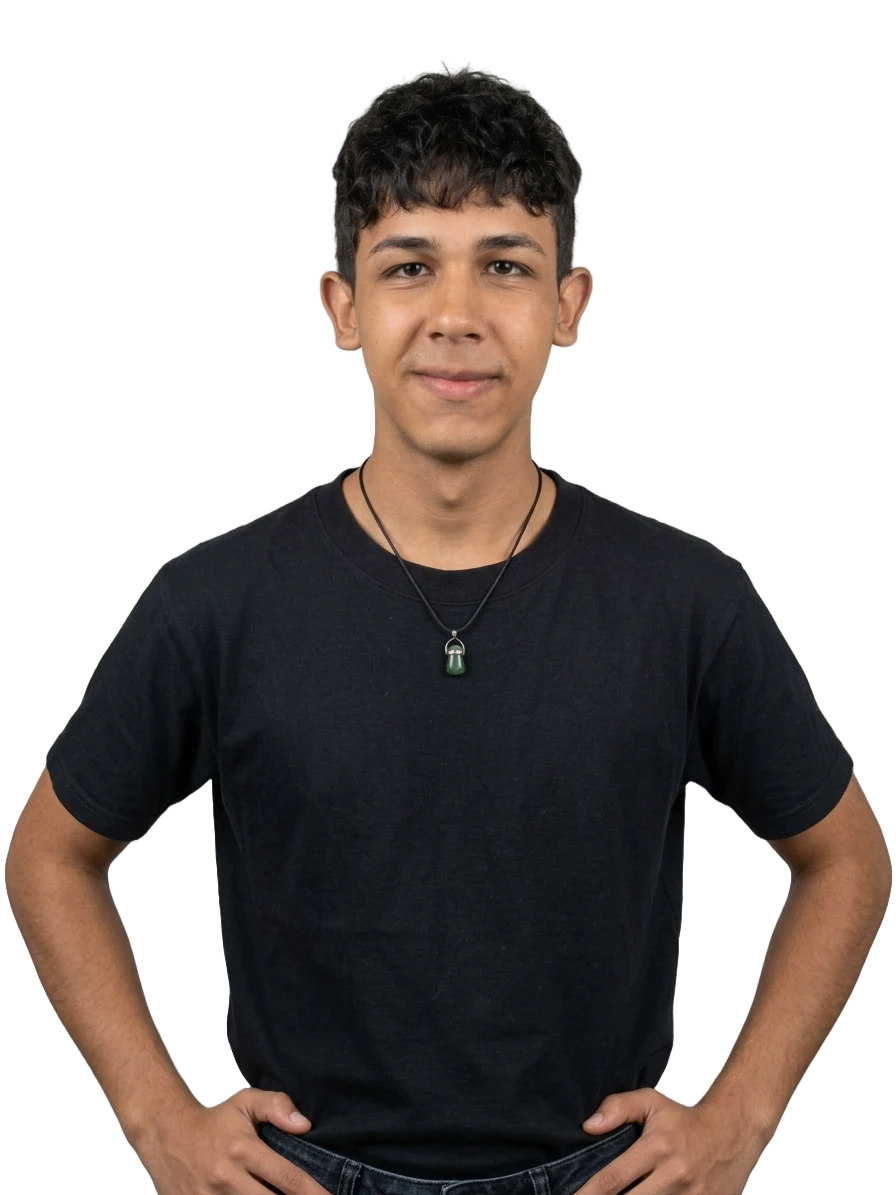
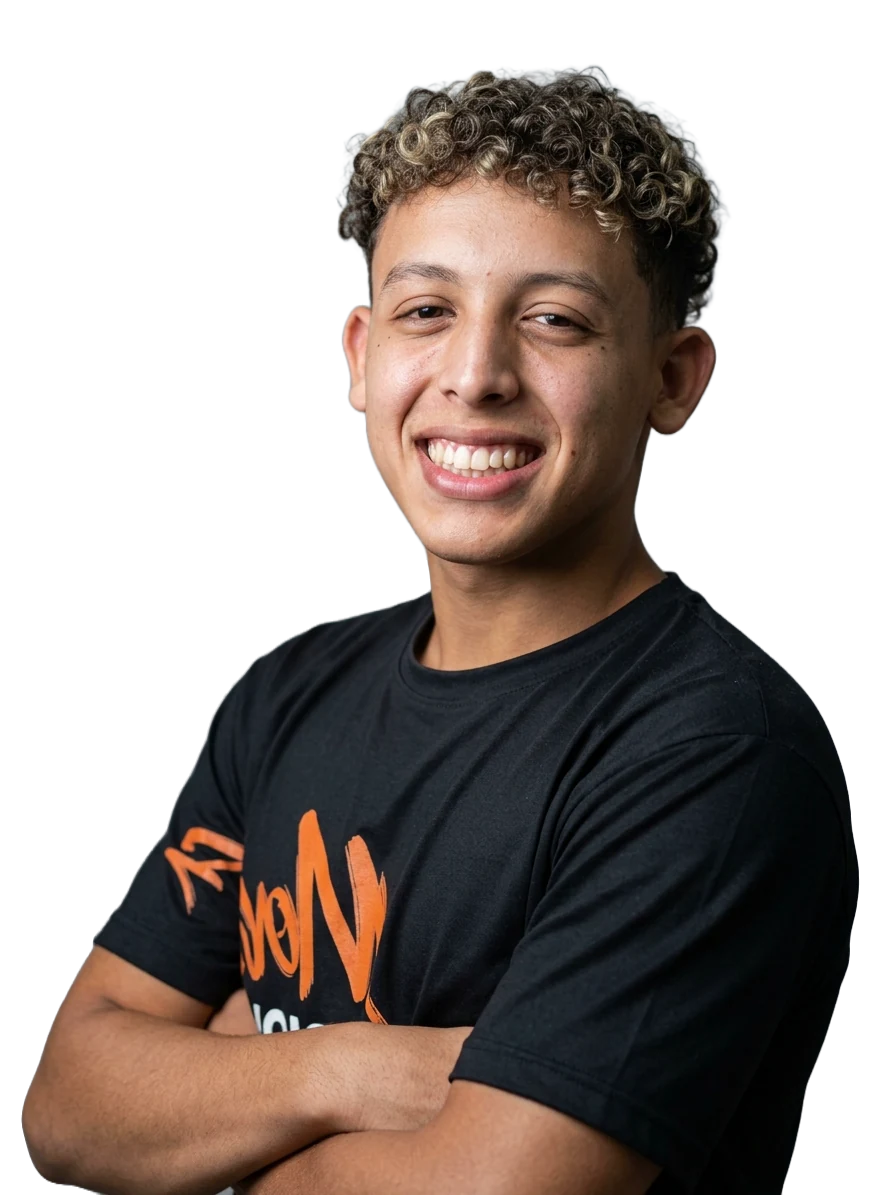
Actualizacion de fundadores y equipo.

diff --git a/Navegacion_Bytes/nuestro-equipo.html b/Navegacion_Bytes/nuestro-equipo.html
@@ -89,12 +89,6 @@
     <!-- ============================================================
          CONTENIDO A SUSTITUIR
          Por cada persona hay que cambiar:
-           · .member-monogram → sus iniciales
-           · .member-label    → su área
-           · .member-name     → nombre y apellido
-           · .member-role     → cargo
-           · .member-bio      → biografía
-           · .member-skills   → sus habilidades
            · .member-social   → URLs reales (ahora apuntan a #)
            · .member-photo    → subir la foto a la carpeta equipo/ con
                                 el nombre que indica el src. Son recortes
@@ -143,20 +137,58 @@
         </div>
     </section>
 
-    <!-- Persona 02 · foto a la derecha -->
+    <!-- Persona 02 · foto a la izquierda -->
     <section class="member member--tono-b member--invertida" aria-labelledby="miembro-2">
         <span class="member-ghost" aria-hidden="true">02</span>
         <div class="member-inner reveal">
 
             <figure class="member-portrait">
-                <span class="member-monogram" aria-hidden="true"></span>
+                <span class="member-monogram" aria-hidden="true">NA</span>
                 <img class="member-photo" src="../equipo/equipo-2.webp"
-                     alt="Retrato de la segunda persona del equipo de Bytes"
+                     alt="Retrato de la primera persona del equipo de Bytes"
                      width="896" height="1195" loading="lazy" decoding="async">
             </figure>
 
             <div class="member-info">
                 <span class="member-index" aria-hidden="true">02</span>
+                <span class="member-label">Centro Administrativo</span>
+
+                <h2 class="member-name" id="miembro-1">Matthew Osorio</h2>
+                <p class="member-role">Gerente administrativo</p>
+
+                <p class="member-bio">
+                    Como Gerente Administrativo, mantiene la estructura y el orden
+                    que le permiten a Bytes crecer de forma sólida y organizada.
+                </p>
+
+                <ul class="member-skills">
+                    <li>Director</li>
+                    <li>Administrativo</li>
+                    <li>Gerencia</li>
+                </ul>
+
+                <ul class="member-social">
+                    <li><a href="#" aria-label="Instagram de la segunda persona del equipo"><svg width="17" height="17" viewBox="0 0 24 24" fill="none" stroke="currentColor" stroke-width="2" stroke-linecap="round" stroke-linejoin="round" aria-hidden="true" focusable="false"><rect x="2" y="2" width="20" height="20" rx="5" ry="5"></rect><path d="M16 11.37A4 4 0 1 1 12.63 8 4 4 0 0 1 16 11.37z"></path><line x1="17.5" y1="6.5" x2="17.51" y2="6.5"></line></svg></a></li>
+                    <li><a href="mailto:contacto@bytes.com" aria-label="Correo de la segunda persona del equipo"><svg width="17" height="17" viewBox="0 0 24 24" fill="none" stroke="currentColor" stroke-width="2" stroke-linecap="round" stroke-linejoin="round" aria-hidden="true" focusable="false"><rect x="2" y="4" width="20" height="16" rx="2"></rect><path d="m22 7-10 6L2 7"></path></svg></a></li>
+                </ul>
+            </div>
+        </div>
+    </section>
+
+    <!-- Persona 03 · foto a la derecha -->
+    <section class="member member--tono-a" aria-labelledby="miembro-3">
+        <span class="member-ghost" aria-hidden="true">03</span>
+        <div class="member-inner reveal">
+
+            <figure class="member-portrait">
+                <span class="member-monogram" aria-hidden="true"></span>
+                <img class="member-photo" src="../equipo/equipo-3.webp"
+                     alt="Retrato de la segunda persona del equipo de Bytes"
+                     width="896" height="1195" loading="lazy" decoding="async">
+            </figure>
+
+            <div class="member-info">
+                <span class="member-index" aria-hidden="true">03</span>
                 <span class="member-label">Ventas</span>
 
                 <h2 class="member-name" id="miembro-2">Moises Guerra</h2>
@@ -175,8 +207,8 @@
                 </ul>
 
                 <ul class="member-social">
-                    <li><a href="#" aria-label="Instagram de la segunda persona del equipo"><svg width="17" height="17" viewBox="0 0 24 24" fill="none" stroke="currentColor" stroke-width="2" stroke-linecap="round" stroke-linejoin="round" aria-hidden="true" focusable="false"><rect x="2" y="2" width="20" height="20" rx="5" ry="5"></rect><path d="M16 11.37A4 4 0 1 1 12.63 8 4 4 0 0 1 16 11.37z"></path><line x1="17.5" y1="6.5" x2="17.51" y2="6.5"></line></svg></a></li>
-                    <li><a href="mailto:contacto@bytes.com" aria-label="Correo de la segunda persona del equipo"><svg width="17" height="17" viewBox="0 0 24 24" fill="none" stroke="currentColor" stroke-width="2" stroke-linecap="round" stroke-linejoin="round" aria-hidden="true" focusable="false"><rect x="2" y="4" width="20" height="16" rx="2"></rect><path d="m22 7-10 6L2 7"></path></svg></a></li>
+                    <li><a href="#" aria-label="Instagram de la tercera persona del equipo"><svg width="17" height="17" viewBox="0 0 24 24" fill="none" stroke="currentColor" stroke-width="2" stroke-linecap="round" stroke-linejoin="round" aria-hidden="true" focusable="false"><rect x="2" y="2" width="20" height="20" rx="5" ry="5"></rect><path d="M16 11.37A4 4 0 1 1 12.63 8 4 4 0 0 1 16 11.37z"></path><line x1="17.5" y1="6.5" x2="17.51" y2="6.5"></line></svg></a></li>
+                    <li><a href="mailto:contacto@bytes.com" aria-label="Correo de la tercera persona del equipo"><svg width="17" height="17" viewBox="0 0 24 24" fill="none" stroke="currentColor" stroke-width="2" stroke-linecap="round" stroke-linejoin="round" aria-hidden="true" focusable="false"><rect x="2" y="4" width="20" height="16" rx="2"></rect><path d="m22 7-10 6L2 7"></path></svg></a></li>
                 </ul>
             </div>
 
@@ -184,39 +216,38 @@
     </section>
 
     <!-- Persona 03 · foto a la izquierda -->
-    <section class="member member--tono-a" aria-labelledby="miembro-3">
-        <span class="member-ghost" aria-hidden="true">03</span>
+    <section class="member member--tono-b member--invertida" aria-labelledby="miembro-4">
+        <span class="member-ghost" aria-hidden="true">04</span>
         <div class="member-inner reveal">
 
             <figure class="member-portrait">
                 <span class="member-monogram" aria-hidden="true">NA</span>
-                <img class="member-photo" src="../equipo/equipo-3.webp"
+                <img class="member-photo" src="../equipo/equipo-4.webp"
                      alt="Retrato de la tercera persona del equipo de Bytes"
                      width="896" height="1195" loading="lazy" decoding="async">
             </figure>
 
             <div class="member-info">
-                <span class="member-index" aria-hidden="true">03</span>
-                <span class="member-label">Diseño</span>
+                <span class="member-index" aria-hidden="true">04</span>
+                <span class="member-label">Ventas</span>
 
-                <h2 class="member-name" id="miembro-3">Nombre Apellido</h2>
-                <p class="member-role">Cargo dentro de Bytes</p>
+                <h2 class="member-name" id="miembro-3">Jesus Martins</h2>
+                <p class="member-role">SDR</p>
 
                 <p class="member-bio">
-                    Tres o cuatro frases sobre esta persona: qué hace en Bytes,
-                    en qué proyectos ha trabajado y qué aporta al equipo.
-                    Sustituye este texto por el real.
+                    Parte del equipo de ventas de Bytes, diseñó un enfoque propio
+                    que ha impulsado el crecimiento comercial de la empresa.
                 </p>
 
                 <ul class="member-skills">
-                    <li>Habilidad uno</li>
-                    <li>Habilidad dos</li>
-                    <li>Habilidad tres</li>
+                    <li>Atención</li>
+                    <li>Negociador</li>
+                    <li>Cierre de ventas</li>
                 </ul>
 
                 <ul class="member-social">
-                    <li><a href="#" aria-label="Instagram de la tercera persona del equipo"><svg width="17" height="17" viewBox="0 0 24 24" fill="none" stroke="currentColor" stroke-width="2" stroke-linecap="round" stroke-linejoin="round" aria-hidden="true" focusable="false"><rect x="2" y="2" width="20" height="20" rx="5" ry="5"></rect><path d="M16 11.37A4 4 0 1 1 12.63 8 4 4 0 0 1 16 11.37z"></path><line x1="17.5" y1="6.5" x2="17.51" y2="6.5"></line></svg></a></li>
-                    <li><a href="mailto:contacto@bytes.com" aria-label="Correo de la tercera persona del equipo"><svg width="17" height="17" viewBox="0 0 24 24" fill="none" stroke="currentColor" stroke-width="2" stroke-linecap="round" stroke-linejoin="round" aria-hidden="true" focusable="false"><rect x="2" y="4" width="20" height="16" rx="2"></rect><path d="m22 7-10 6L2 7"></path></svg></a></li>
+                    <li><a href="#" aria-label="Instagram de la cuarta persona del equipo"><svg width="17" height="17" viewBox="0 0 24 24" fill="none" stroke="currentColor" stroke-width="2" stroke-linecap="round" stroke-linejoin="round" aria-hidden="true" focusable="false"><rect x="2" y="2" width="20" height="20" rx="5" ry="5"></rect><path d="M16 11.37A4 4 0 1 1 12.63 8 4 4 0 0 1 16 11.37z"></path><line x1="17.5" y1="6.5" x2="17.51" y2="6.5"></line></svg></a></li>
+                    <li><a href="mailto:contacto@bytes.com" aria-label="Correo de la cuarta persona del equipo"><svg width="17" height="17" viewBox="0 0 24 24" fill="none" stroke="currentColor" stroke-width="2" stroke-linecap="round" stroke-linejoin="round" aria-hidden="true" focusable="false"><rect x="2" y="4" width="20" height="16" rx="2"></rect><path d="m22 7-10 6L2 7"></path></svg></a></li>
                 </ul>
             </div>
 

diff --git a/Navegacion_Bytes/fundadores.html b/Navegacion_Bytes/fundadores.html
@@ -71,12 +71,8 @@
     <!-- ============================================================
          CONTENIDO A SUSTITUIR
          Por cada fundador hay que cambiar:
-           · .founder-monogram  → sus iniciales
-           · .founder-name      → nombre y apellido
-           · .founder-role      → cargo
-           · .founder-bio       → biografía
            · .founder-focus     → áreas en las que trabaja
-           · .founder-links     → URLs reales (ahora apuntan a #)
+           · .founder-links     → Solo faltan las del correo
            · .founder-photo     → subir la foto a la carpeta equipo/
                                   con el nombre que indica el src.
          Mientras la foto no exista, se muestra el monograma:
@@ -95,26 +91,27 @@
                      width="900" height="1200" loading="lazy" decoding="async">
 
                 <ul class="founder-social">
-                    <li><a href="#" aria-label="Instagram del primer fundador"><svg width="16" height="16" viewBox="0 0 24 24" fill="none" stroke="currentColor" stroke-width="2" stroke-linecap="round" stroke-linejoin="round" aria-hidden="true" focusable="false"><rect x="2" y="2" width="20" height="20" rx="5" ry="5"></rect><path d="M16 11.37A4 4 0 1 1 12.63 8 4 4 0 0 1 16 11.37z"></path><line x1="17.5" y1="6.5" x2="17.51" y2="6.5"></line></svg></a></li>
-                    <li><a href="#" aria-label="GitHub del primer fundador"><svg width="16" height="16" viewBox="0 0 24 24" fill="none" stroke="currentColor" stroke-width="2" stroke-linecap="round" stroke-linejoin="round" aria-hidden="true" focusable="false"><path d="M9 19c-5 1.5-5-2.5-7-3m14 6v-3.87a3.37 3.37 0 0 0-.94-2.61c3.14-.35 6.44-1.54 6.44-7A5.44 5.44 0 0 0 20 4.77 5.07 5.07 0 0 0 19.91 1S18.73.65 16 2.48a13.38 13.38 0 0 0-7 0C6.27.65 5.09 1 5.09 1A5.07 5.07 0 0 0 5 4.77a5.44 5.44 0 0 0-1.5 3.78c0 5.42 3.3 6.61 6.44 7A3.37 3.37 0 0 0 9 18.13V22"></path></svg></a></li>
+                    <li><a href="https://www.instagram.com/aktham.abel/" aria-label="Instagram del primer fundador"><svg width="16" height="16" viewBox="0 0 24 24" fill="none" stroke="currentColor" stroke-width="2" stroke-linecap="round" stroke-linejoin="round" aria-hidden="true" focusable="false"><rect x="2" y="2" width="20" height="20" rx="5" ry="5"></rect><path d="M16 11.37A4 4 0 1 1 12.63 8 4 4 0 0 1 16 11.37z"></path><line x1="17.5" y1="6.5" x2="17.51" y2="6.5"></line></svg></a></li>
+                    <li><a href="https://github.com/CodeGenius-Aktham" aria-label="GitHub del primer fundador"><svg width="16" height="16" viewBox="0 0 24 24" fill="none" stroke="currentColor" stroke-width="2" stroke-linecap="round" stroke-linejoin="round" aria-hidden="true" focusable="false"><path d="M9 19c-5 1.5-5-2.5-7-3m14 6v-3.87a3.37 3.37 0 0 0-.94-2.61c3.14-.35 6.44-1.54 6.44-7A5.44 5.44 0 0 0 20 4.77 5.07 5.07 0 0 0 19.91 1S18.73.65 16 2.48a13.38 13.38 0 0 0-7 0C6.27.65 5.09 1 5.09 1A5.07 5.07 0 0 0 5 4.77a5.44 5.44 0 0 0-1.5 3.78c0 5.42 3.3 6.61 6.44 7A3.37 3.37 0 0 0 9 18.13V22"></path></svg></a></li>
                     <li><a href="mailto:contacto@bytes.com" aria-label="Correo del primer fundador"><svg width="16" height="16" viewBox="0 0 24 24" fill="none" stroke="currentColor" stroke-width="2" stroke-linecap="round" stroke-linejoin="round" aria-hidden="true" focusable="false"><rect x="2" y="4" width="20" height="16" rx="2"></rect><path d="m22 7-10 6L2 7"></path></svg></a></li>
                 </ul>
             </div>
 
             <div class="founder-body">
-                <h2 class="founder-name">Nombre Apellido</h2>
-                <p class="founder-role">Cofundador &middot; Cargo</p>
+                <h2 class="founder-name">Aktham Abel</h2>
+                <p class="founder-role">Cofundador &middot; CEO</p>
 
                 <p class="founder-bio">
-                    Breve biograf&iacute;a de dos o tres frases: de d&oacute;nde viene, qu&eacute;
-                    construy&oacute; antes de Bytes y qu&eacute; parte del proyecto lidera hoy.
-                    Sustituye este texto por el real.
+                    Nacido en Venezuela, es la persona que lleva a Bytes a nuevas ligas.
+                    Con su liderazgo, busca llevar los productos y la arquitectura de la
+                    empresa a los más altos estándares, en beneficio de nuestros clientes
+                    y de la sociedad.
                 </p>
 
                 <ul class="founder-focus">
-                    <li>&Aacute;rea uno</li>
-                    <li>&Aacute;rea dos</li>
-                    <li>&Aacute;rea tres</li>
+                    <li>Responsabile</li>
+                    <li>Lider</li>
+                    <li>Inteligente</li>
                 </ul>
             </div>
         </article>
@@ -130,26 +127,26 @@
                      width="900" height="1200" loading="lazy" decoding="async">
 
                 <ul class="founder-social">
-                    <li><a href="#" aria-label="Instagram del segundo fundador"><svg width="16" height="16" viewBox="0 0 24 24" fill="none" stroke="currentColor" stroke-width="2" stroke-linecap="round" stroke-linejoin="round" aria-hidden="true" focusable="false"><rect x="2" y="2" width="20" height="20" rx="5" ry="5"></rect><path d="M16 11.37A4 4 0 1 1 12.63 8 4 4 0 0 1 16 11.37z"></path><line x1="17.5" y1="6.5" x2="17.51" y2="6.5"></line></svg></a></li>
-                    <li><a href="#" aria-label="GitHub del segundo fundador"><svg width="16" height="16" viewBox="0 0 24 24" fill="none" stroke="currentColor" stroke-width="2" stroke-linecap="round" stroke-linejoin="round" aria-hidden="true" focusable="false"><path d="M9 19c-5 1.5-5-2.5-7-3m14 6v-3.87a3.37 3.37 0 0 0-.94-2.61c3.14-.35 6.44-1.54 6.44-7A5.44 5.44 0 0 0 20 4.77 5.07 5.07 0 0 0 19.91 1S18.73.65 16 2.48a13.38 13.38 0 0 0-7 0C6.27.65 5.09 1 5.09 1A5.07 5.07 0 0 0 5 4.77a5.44 5.44 0 0 0-1.5 3.78c0 5.42 3.3 6.61 6.44 7A3.37 3.37 0 0 0 9 18.13V22"></path></svg></a></li>
+                    <li><a href="https://www.instagram.com/camilomunozb_/" aria-label="Instagram del segundo fundador"><svg width="16" height="16" viewBox="0 0 24 24" fill="none" stroke="currentColor" stroke-width="2" stroke-linecap="round" stroke-linejoin="round" aria-hidden="true" focusable="false"><rect x="2" y="2" width="20" height="20" rx="5" ry="5"></rect><path d="M16 11.37A4 4 0 1 1 12.63 8 4 4 0 0 1 16 11.37z"></path><line x1="17.5" y1="6.5" x2="17.51" y2="6.5"></line></svg></a></li>
+                    <li><a href="https://github.com/CamiloMunozb1" aria-label="GitHub del segundo fundador"><svg width="16" height="16" viewBox="0 0 24 24" fill="none" stroke="currentColor" stroke-width="2" stroke-linecap="round" stroke-linejoin="round" aria-hidden="true" focusable="false"><path d="M9 19c-5 1.5-5-2.5-7-3m14 6v-3.87a3.37 3.37 0 0 0-.94-2.61c3.14-.35 6.44-1.54 6.44-7A5.44 5.44 0 0 0 20 4.77 5.07 5.07 0 0 0 19.91 1S18.73.65 16 2.48a13.38 13.38 0 0 0-7 0C6.27.65 5.09 1 5.09 1A5.07 5.07 0 0 0 5 4.77a5.44 5.44 0 0 0-1.5 3.78c0 5.42 3.3 6.61 6.44 7A3.37 3.37 0 0 0 9 18.13V22"></path></svg></a></li>
                     <li><a href="mailto:contacto@bytes.com" aria-label="Correo del segundo fundador"><svg width="16" height="16" viewBox="0 0 24 24" fill="none" stroke="currentColor" stroke-width="2" stroke-linecap="round" stroke-linejoin="round" aria-hidden="true" focusable="false"><rect x="2" y="4" width="20" height="16" rx="2"></rect><path d="m22 7-10 6L2 7"></path></svg></a></li>
                 </ul>
             </div>
 
             <div class="founder-body">
-                <h2 class="founder-name">Nombre Apellido</h2>
-                <p class="founder-role">Cofundador &middot; Cargo</p>
+                <h2 class="founder-name">Juan Camilo</h2>
+                <p class="founder-role">Cofundador &middot; CTO</p>
 
                 <p class="founder-bio">
-                    Breve biograf&iacute;a de dos o tres frases: de d&oacute;nde viene, qu&eacute;
-                    construy&oacute; antes de Bytes y qu&eacute; parte del proyecto lidera hoy.
-                    Sustituye este texto por el real.
+                    Investigador bogotano con un fuerte sentido de la innovación.
+                    Busca construir una frontera digital que revolucione la
+                    condición humana, modernizando la sociedad latinoamericana.
                 </p>
 
                 <ul class="founder-focus">
-                    <li>&Aacute;rea uno</li>
-                    <li>&Aacute;rea dos</li>
-                    <li>&Aacute;rea tres</li>
+                    <li>Innovador</li>
+                    <li>crítico</li>
+                    <li>Revolucionario</li>
                 </ul>
             </div>
         </article>
